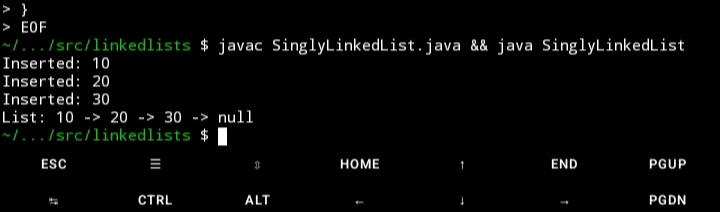
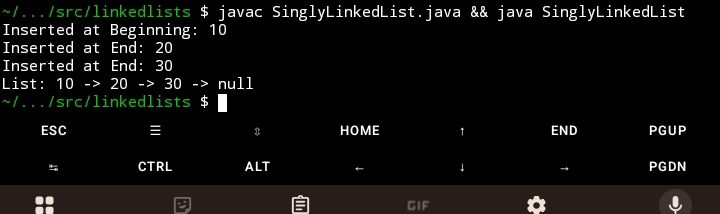
Day 2: Replace with final linked list execution proof (Node class, Insert, Display)

diff --git a/README.md b/README.md
@@ -10,7 +10,7 @@ A systematic implementation of core Data Structures and Algorithms in Java. This
 
 ## 📅 7-Day Roadmap & Progress
 - [x] Day 1: Arrays - Search, Insertion, Deletion, and Traversal logic. ✅ ![Proof](docs/arrays_run.jpg)
-- [x] Day 2: Singly Linked Lists - ✅ ![Proof](docs/linkedlists_run.jpg)
+- [x] Day 2: Singly Linked Lists - Node class, Beginning/End insertion, and Display. ✅ ![Proof](docs/linkedlists_run.jpg)
 - [x] Day 3: Stacks - ✅ ![Proof](docs/stacks_run.jpg)
 - [x] Day 4: Queues - ✅ ![Proof](docs/queues_run.jpg)
 - [x] Day 5: Searching algorithms - linear search, binary search. ✅ ![Execution Proof](docs/searching_run.jpg)
